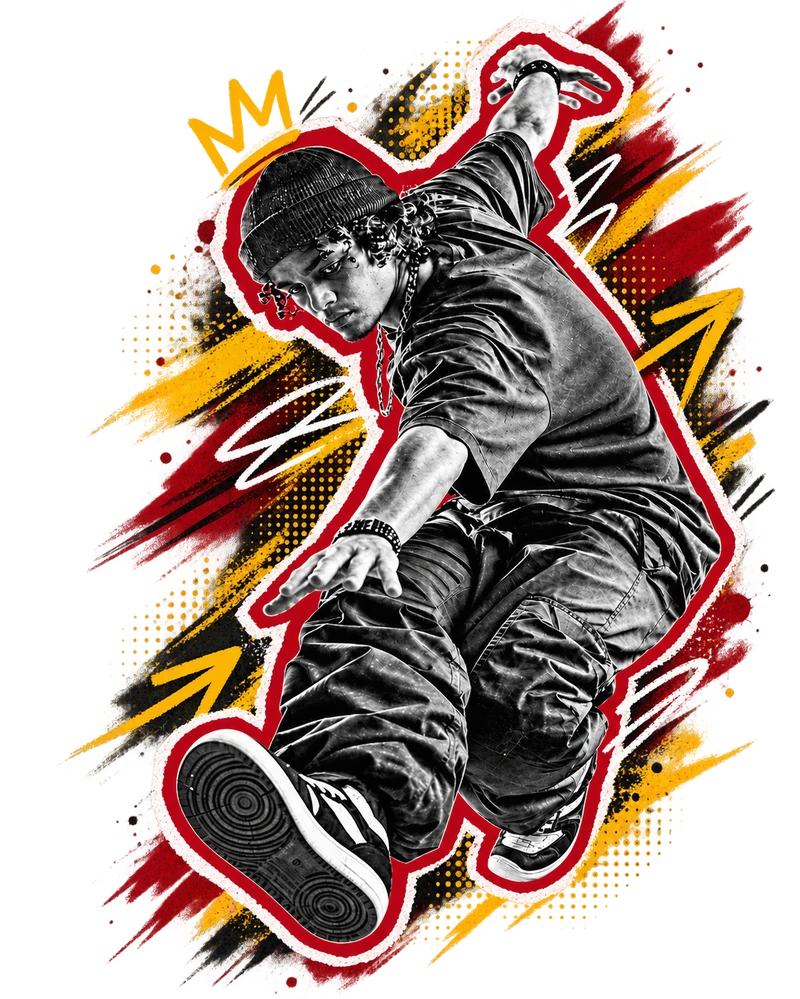
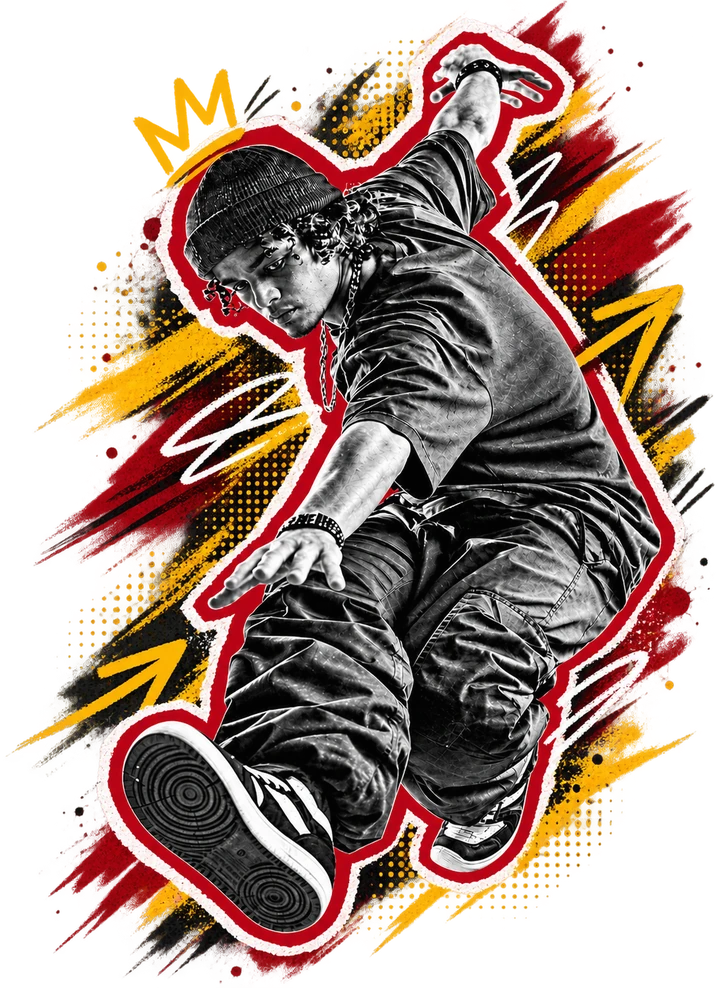
Add files via upload

diff --git a/src/styles/global.css b/src/styles/global.css
@@ -155,7 +155,7 @@ button {
 /* ---------- Hero ---------- */
 .hero {
   position: relative;
-  padding: 90px 20px 0;
+  padding: 28px 20px 0;
   background:
     radial-gradient(ellipse at 75% 20%, rgba(163,25,36,0.25), transparent 55%),
     var(--preto);
@@ -166,29 +166,44 @@ button {
   display: grid;
   grid-template-columns: 1.05fr 0.95fr;
   gap: 20px;
-  align-items: end;
+  align-items: start;
 }
-.hero-copy { padding-bottom: 60px; }
+.hero-copy { padding-bottom: 32px; }
 .hero-illustration {
   display: flex;
-  align-items: flex-end;
-  justify-content: center;
+  flex-direction: column;
+  align-items: center;
+  justify-content: flex-start;
+  padding-top: 10px;
   height: 100%;
 }
+.hero-illustration .support-strip-desktop {
+  margin-top: auto;
+  align-self: flex-end;
+}
+.support-strip.support-strip-mobile { display: none; }
 .hero-illustration img {
-  width: 100%;
-  max-width: 460px;
+  width: auto;
+  max-width: 100%;
   height: auto;
+  max-height: 560px;
   display: block;
 }
 .hero-title-img {
   width: 100%;
-  max-width: 480px;
+  max-width: 400px;
   height: auto;
   display: block;
 }
 @media (max-width: 900px) {
-  .hero-title-img { max-width: 340px; }
+  .hero-title-img { max-width: 300px; }
+}
+.sobre-title-img {
+  width: 100%;
+  max-width: 420px;
+  height: auto;
+  display: block;
+  margin-bottom: 6px;
 }
 .hero-eyebrow {
   color: var(--vermelho);
@@ -203,7 +218,7 @@ button {
   color: var(--amarelo);
 }
 .hero .sub {
-  margin-top: 20px;
+  margin-top: 12px;
   max-width: 560px;
   font-size: 17px;
   line-height: 1.5;
@@ -265,7 +280,9 @@ button {
   .hero .container { grid-template-columns: 1fr; }
   .hero-illustration { order: -1; max-height: 46vh; overflow: hidden; }
   .hero-illustration img { max-width: 320px; }
+  .hero-illustration .support-strip-desktop { display: none; }
   .hero-copy { padding-bottom: 30px; }
+  .support-strip.support-strip-mobile { display: flex; }
 }
 
 /* ---------- Sections ---------- */
@@ -295,9 +312,10 @@ button {
 
 .stats-row {
   display: grid;
-  grid-template-columns: repeat(auto-fit, minmax(140px, 1fr));
+  grid-template-columns: repeat(2, 1fr);
   gap: 16px;
   margin-top: 40px;
+  max-width: 480px;
 }
 .stat-box {
   border: 1px solid var(--borda);
@@ -310,6 +328,8 @@ button {
   font-weight: 700;
   color: var(--amarelo);
 }
+.stat-box.highlight { border-color: var(--vermelho); }
+.stat-box.highlight .num { color: var(--vermelho); }
 .stat-box .label {
   font-size: 12px;
   text-transform: uppercase;

diff --git a/src/pages/Home.tsx b/src/pages/Home.tsx
@@ -11,6 +11,7 @@ import { resolveImageUrl } from '../utils/image'
 import heroDancer from '../assets/hero_dancer.webp'
 import heroTitle from '../assets/hero_title.webp'
 import sobreDancer from '../assets/sobre_dancer.webp'
+import sobreTitle from '../assets/sobre_title.webp'
 
 export default function Home() {
   const { settings } = useEventSettings()
@@ -54,10 +55,11 @@ export default function Home() {
               <Link to="/oficinas" className="btn-primary">Fazer inscrição</Link>
               <Link to="/oficinas" className="btn-secondary">Ver oficinas</Link>
             </div>
-            <SupportStrip />
+            <SupportStrip className="support-strip-mobile" />
           </div>
           <div className="hero-illustration">
             <img src={heroDancer} alt="Bailarino em movimento — identidade visual do Sumaré Hip Hop Festival" />
+            <SupportStrip className="support-strip-desktop" />
           </div>
         </div>
       </section>
@@ -67,7 +69,7 @@ export default function Home() {
         <div className="container split-section">
           <div className="info-block">
             <div className="section-kicker">01 — Sobre o projeto</div>
-            <h2 style={{ fontSize: 'clamp(28px, 4vw, 42px)' }}>Cultura de rua, formação e encontro.</h2>
+            <img src={sobreTitle} alt="Cultura de rua, formação e encontro" className="sobre-title-img" />
             <p className="lead" style={{ marginTop: 14 }}>
               O festival nasce como uma experiência gratuita de cultura Hip Hop, dança, formação
               e desenvolvimento social — aberta para quem já vive a cena e para quem está
@@ -77,7 +79,7 @@ export default function Home() {
               <div className="stat-box"><div className="num">2</div><div className="label">Dias de evento</div></div>
               <div className="stat-box"><div className="num">8</div><div className="label">Oficinas</div></div>
               <div className="stat-box"><div className="num">100%</div><div className="label">Gratuito</div></div>
-              <div className="stat-box">
+              <div className="stat-box highlight">
                 <div className="num">{loading ? '—' : Math.max(totalVagas - totalOcupadas, 0)}</div>
                 <div className="label">Vagas disponíveis agora</div>
               </div>

diff --git a/src/components/SupportStrip.tsx b/src/components/SupportStrip.tsx
@@ -1,8 +1,12 @@
 import regua from '../assets/regua_institucional.webp'
 
-export default function SupportStrip() {
+interface Props {
+  className?: string
+}
+
+export default function SupportStrip({ className }: Props) {
   return (
-    <div className="support-strip">
+    <div className={`support-strip ${className ?? ''}`}>
       <span className="support-label">Apoio</span>
       <img src={regua} alt="Prefeitura de Sumaré, Secretaria de Cultura e Turismo, Sistema Nacional de Cultura, Política Nacional Aldir Blanc, Ministério da Cultura" />
     </div>
